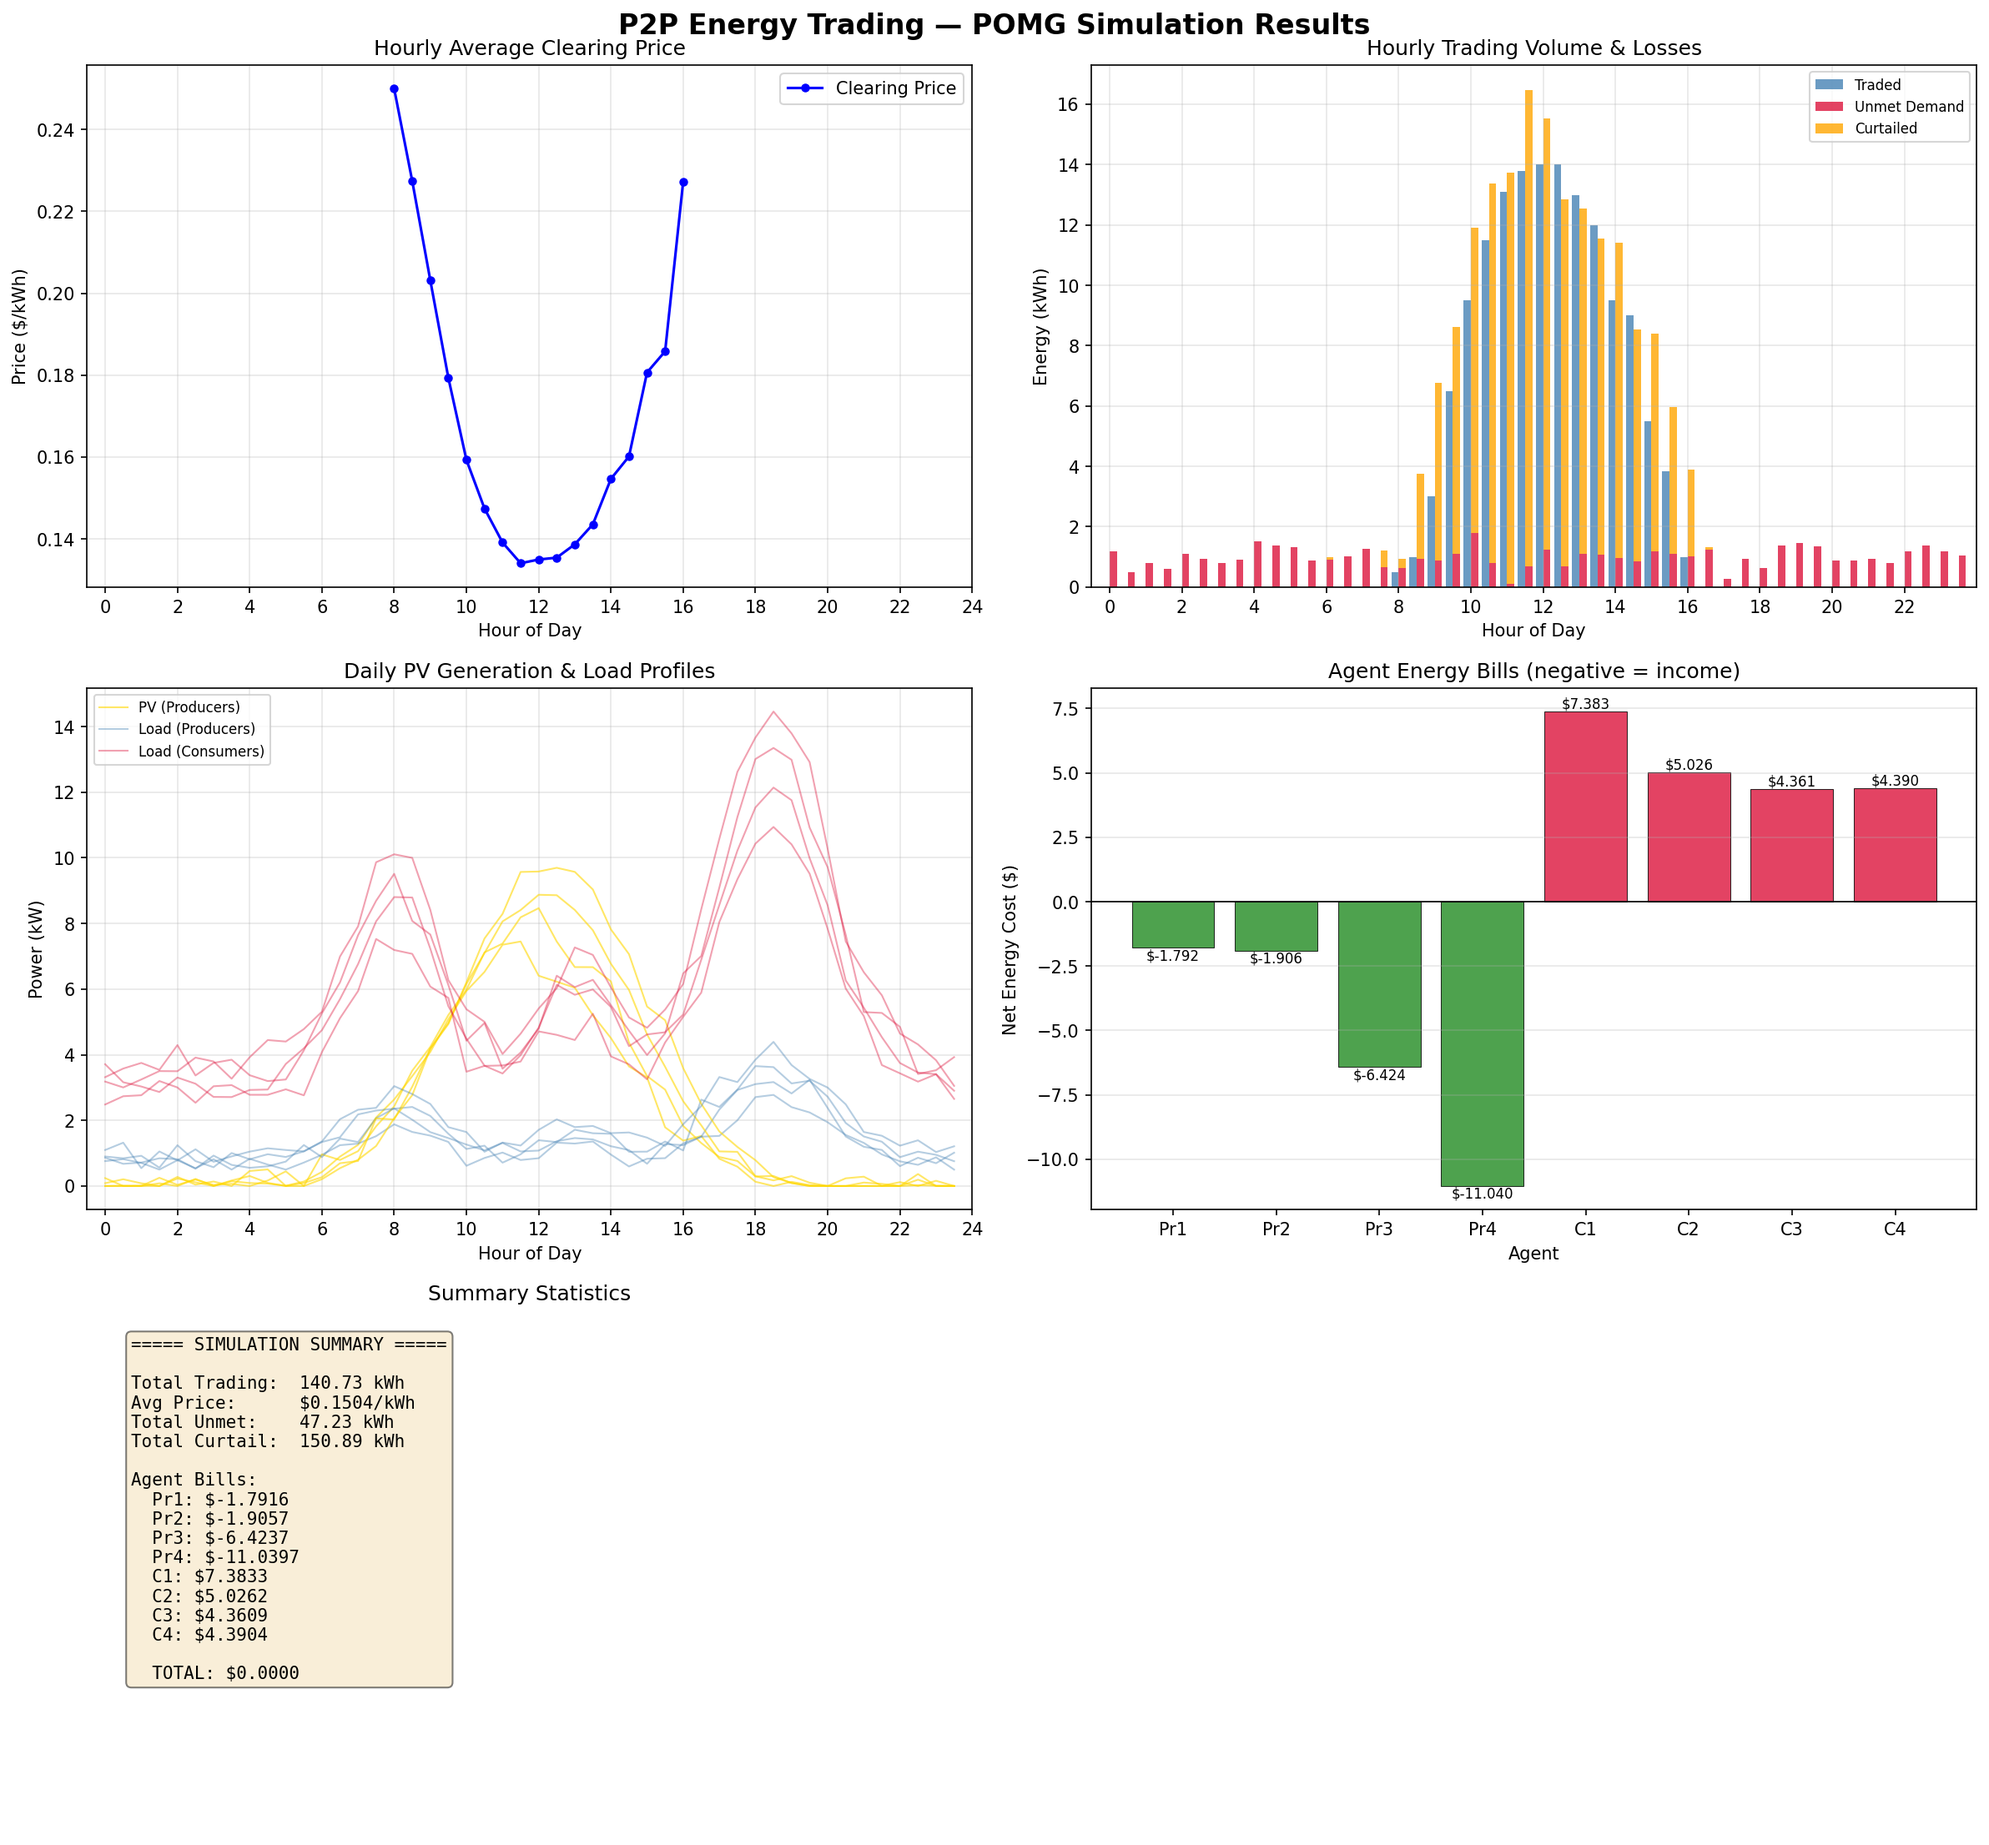
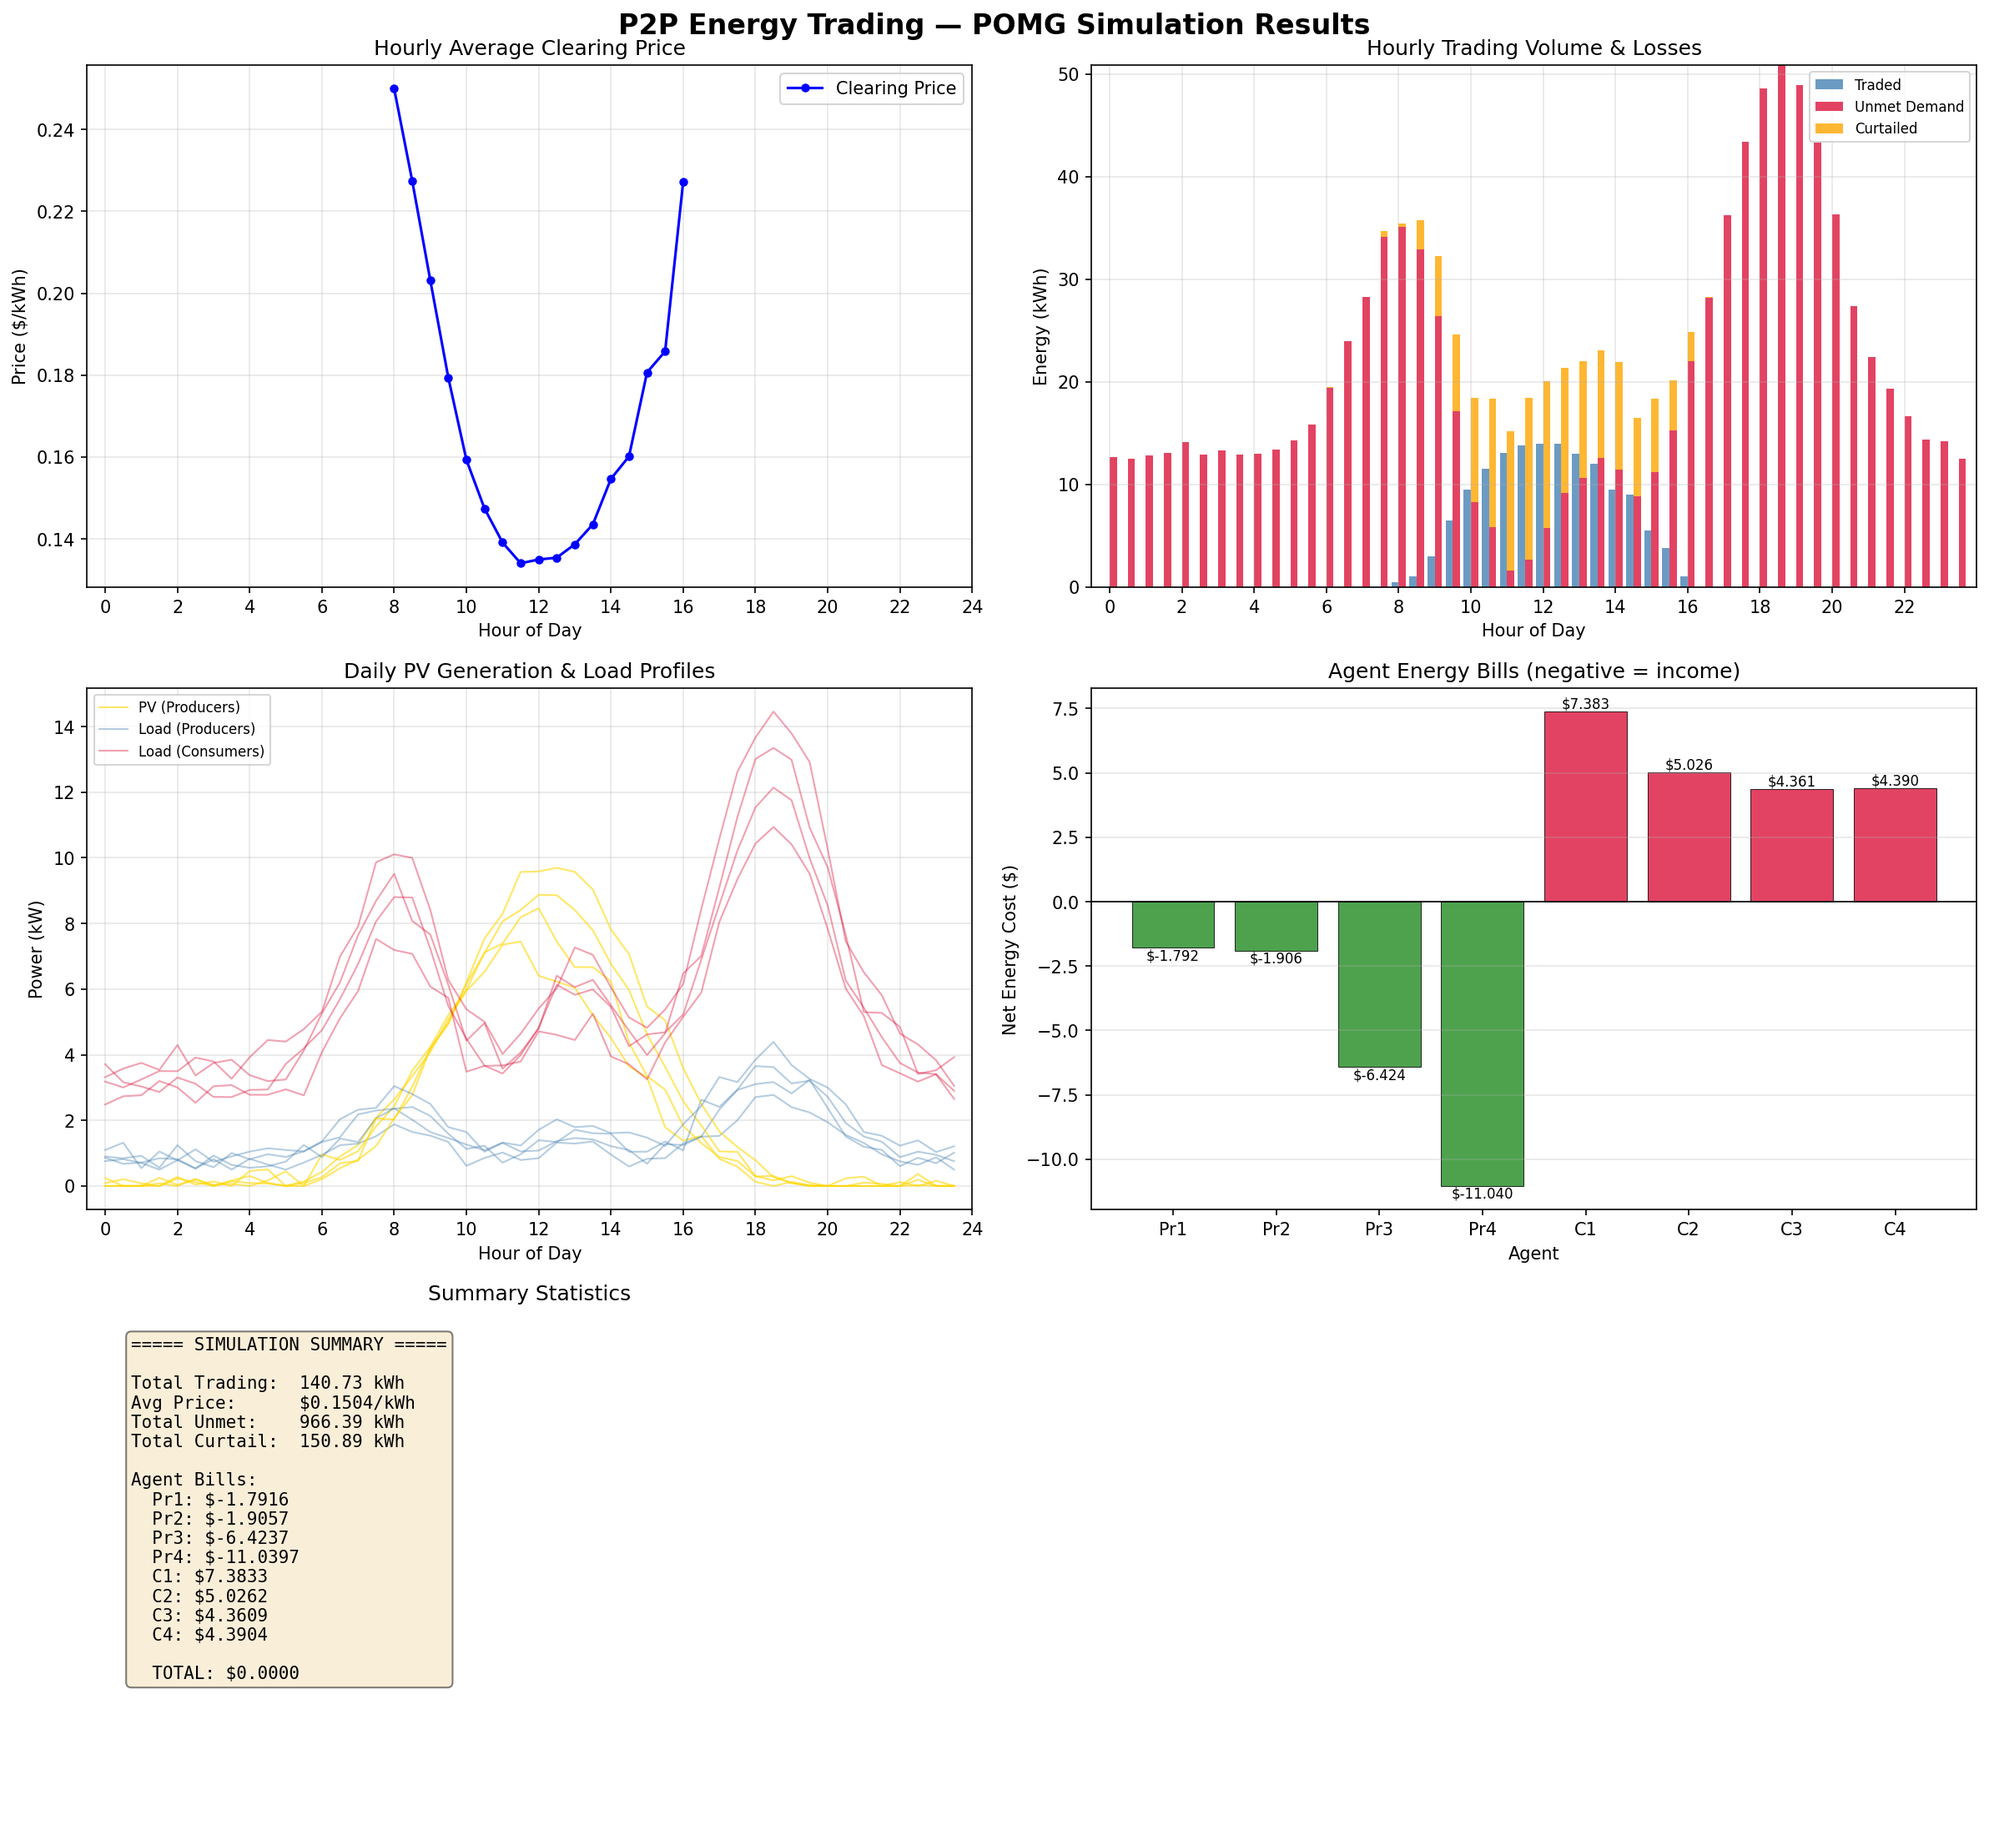
refactor: optimize pending order quantity calculation in EnergyTradingEnv

Changed region(s): [[0.5587, 0.0312, 0.9933, 0.3119]]

diff --git a/src/environment.py b/src/environment.py
@@ -296,14 +296,17 @@ class EnergyTradingEnv:
         clearing_result: PartialClearingResult = self.market.clear_period()
 
         # Build pending lookup: agent_id → remaining unmatched quantity
-        pending_buy_qty: Dict[int, float] = {
-            po.agent_id: po.remaining_quantity
-            for po in clearing_result.pending_buy_orders
-        }
-        pending_sell_qty: Dict[int, float] = {
-            po.agent_id: po.remaining_quantity
-            for po in clearing_result.pending_sell_orders
-        }
+        # (Buyers submit one order per unit; sum all pending rows per agent.)
+        pending_buy_qty: Dict[int, float] = {}
+        for po in clearing_result.pending_buy_orders:
+            pending_buy_qty[po.agent_id] = (
+                pending_buy_qty.get(po.agent_id, 0.0) + po.remaining_quantity
+            )
+        pending_sell_qty: Dict[int, float] = {}
+        for po in clearing_result.pending_sell_orders:
+            pending_sell_qty[po.agent_id] = (
+                pending_sell_qty.get(po.agent_id, 0.0) + po.remaining_quantity
+            )
 
         # Print per-trade info (mirrors the old iterative auction verbose output)
         for t in clearing_result.trades:
